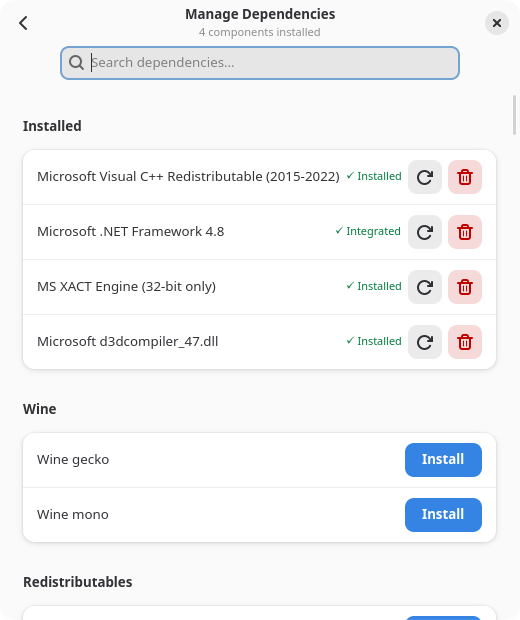
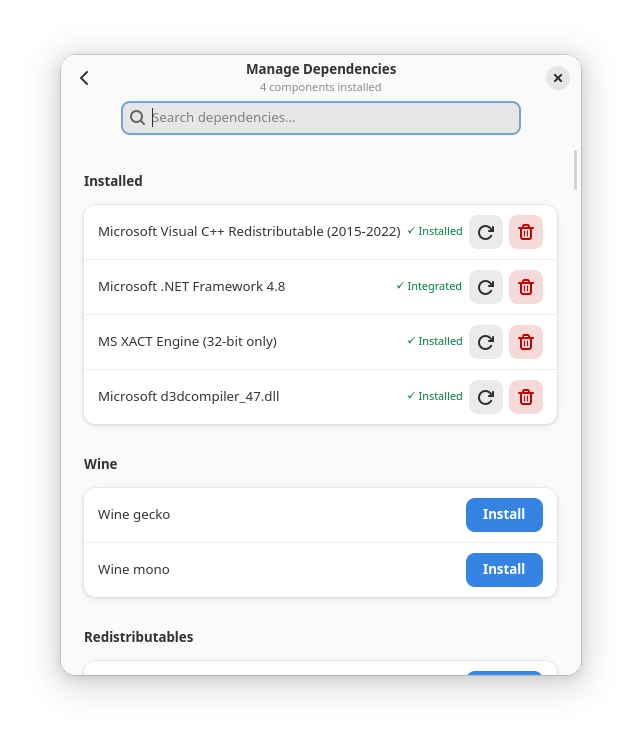
docs: give the screenshots a window shadow
The window's own shadow never reached the images; they now carry the one GNOME apps' Flathub screenshots show, drawn around the window without changing it.

diff --git a/README.md b/README.md
@@ -6,8 +6,8 @@ with its group, and a daemon on the session bus launches, tracks and stops them,
 window, the applications menu and the command line see the same running games.
 
 <p align="center">
-  <img src="data/screenshots/library.png" width="45%" alt="The library, with two groups and three games">
-  <img src="data/screenshots/group.png" width="45%" alt="A group opened on its page, with its five games">
+  <img src="data/screenshots/library.png" width="49%" alt="The library, with two groups and three games">
+  <img src="data/screenshots/group.png" width="49%" alt="A group opened on its page, with its five games">
 </p>
 
 You need GTK 4.22, libadwaita 1.9, a session bus and a systemd user session.
